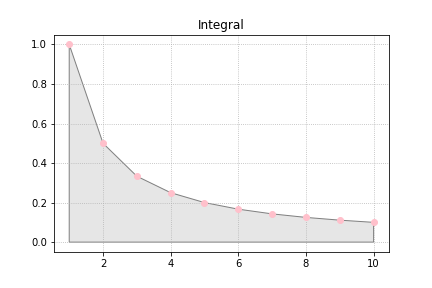
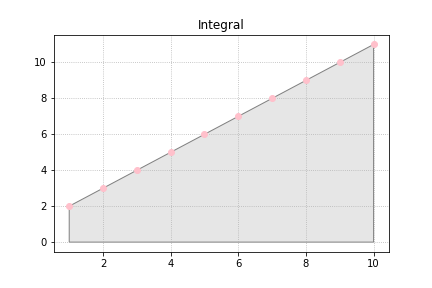
chingado

diff --git a/templates/graph.html b/templates/graph.html
@@ -7,6 +7,10 @@
     <br />
     <br />
     <label>Hola Mundo</label>
+    <p>
+        <img src="{{url_for('static', filename='photos/integral.png')}}"alt="{{url_for('static', filename='photos/pussy.jpg')}}">
+        
+    </p>
 </head>
 <body>
     

diff --git a/main.py b/main.py
@@ -1,11 +1,8 @@
-
-# Vengo corriendo a desearles un feliz jueves! : D
+# %%
 from flask import Flask, redirect, url_for, render_template, request
 from sympy.parsing.sympy_parser import parse_expr
 from sympy.utilities.lambdify import lambdify, implemented_function
-from sympy import Function
 import matplotlib.pyplot as plot
-import mld3
 from sympy.parsing.sympy_parser import parse_expr, standard_transformations, implicit_multiplication_application, convert_xor
 from sympy.abc import x
 from sympy.solvers.solveset import substitution
@@ -41,27 +38,26 @@ def graphic():
     return render_template('login.html', error=error)
 
 
-equation_parsed = parse('x**2')
-
-
-def f():
+def f(xyz):
     """ESTA FUNCION AGARRA UNA FUNCION COMO UN STRING Y LA TRANSFORMA A UNA EXPRESION DE SYMPY, LA CUAL SE LE HACEN TRANSFORMACIONES PARA QUE CUALQUIER TIPO DE FUNCION MATEMATICA SEA VALIDA AL MOMENTO DE EVALUAR; P.E: x*cos(x!*x)"""
     transformations = (standard_transformations +
                        (implicit_multiplication_application,) + (convert_xor,))
-    parsed = parse_expr(input(), evaluate=False,
+    parsed = parse_expr(xyz, evaluate=True,
                         transformations=transformations)
     print(parsed)
     z = symbols('z')
 
-    print(parsed.subs(x, 5))
+    print('se ha parseado tio!')
 
     return lambdify(x, parsed, 'numpy')
 
 
-def integral_plot(f, a, b, N, dx):
+def integral_plot(f, a, b, N):
+
     x = np.linspace(a, b, num=N)
     y = f(x)
-    fig, ax = plot.subplots()
+    #fig = plot.subplots()
+    ax = plot.subplots()
     ax.plot(x, y, 'ro', linewidth=3, color='pink')
     plot.grid(True, linestyle=':')
     plot.title(f'Integral')
@@ -71,9 +67,13 @@ def integral_plot(f, a, b, N, dx):
     ix = np.linspace(a, b, num=N)
     iy = f(ix)
     verts = [(a, 0), *zip(ix, iy), (b, 0)]
-    poly = Polygon(verts, facecolor='0.9', edgecolor='0.5')
+    t = tuple(verts)
+    p = Polygon(*t)
+    plot.Polygon
+    poly = polyplot.Polygon(t, facecolor='0.9', edgecolor='0.5')
     ax.add_patch(poly)
     plot.show()
+    return plot.savefig('static/photos/integral.png')
 
 
 @app.route('/trapz')
@@ -98,16 +98,17 @@ def simps(f, a, b, N=50):
 
 @app.route('/butt', methods=["GET", "POST"])
 def butt():
-    try:
-        a = request.form['a']
-        b = request.form['b']
-        n = request.form['n']
-        ecuacion = request.form['ecuacion']
-        print("{} {} {} {}".format(a, b, n, ecuacion))
-        print(request.form['button'])
-    except:
-        print("no")
-        pass
+    a = float(request.form['a'])
+    b = float(request.form['b'])
+    n = int(request.form['n'])
+    ecuacion = request.form['ecuacion']
+    print("tipo de la ecuacion:", type(ecuacion))
+    print("tipo de la a:", type(a))
+    print("tipo de la b:", type(b))
+    print("{} {} {} {}".format(a, b, n, ecuacion))
+    print(request.form['button'])
+    integral_plot(f(ecuacion), a, b, n)
+
     return render_template('graph.html')
 
 
